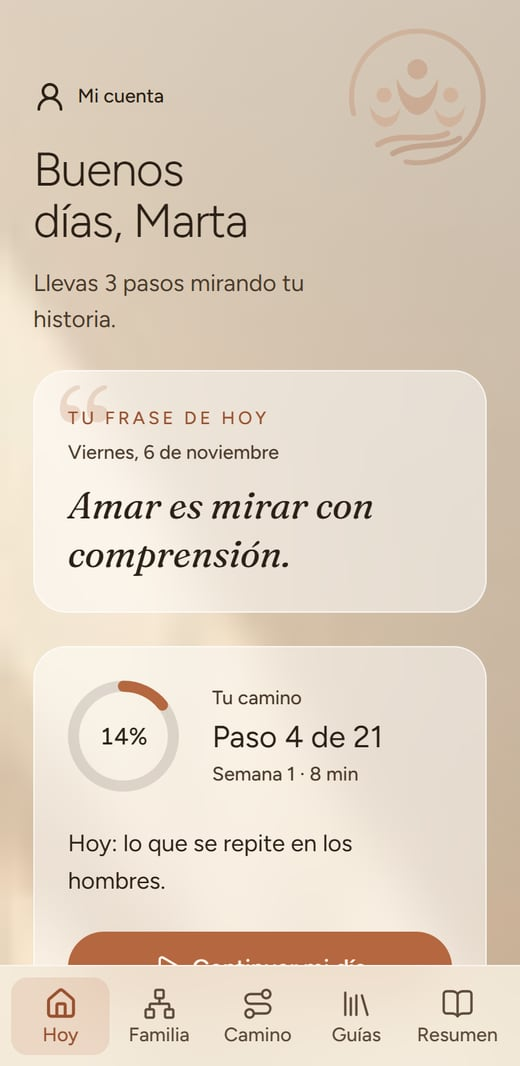
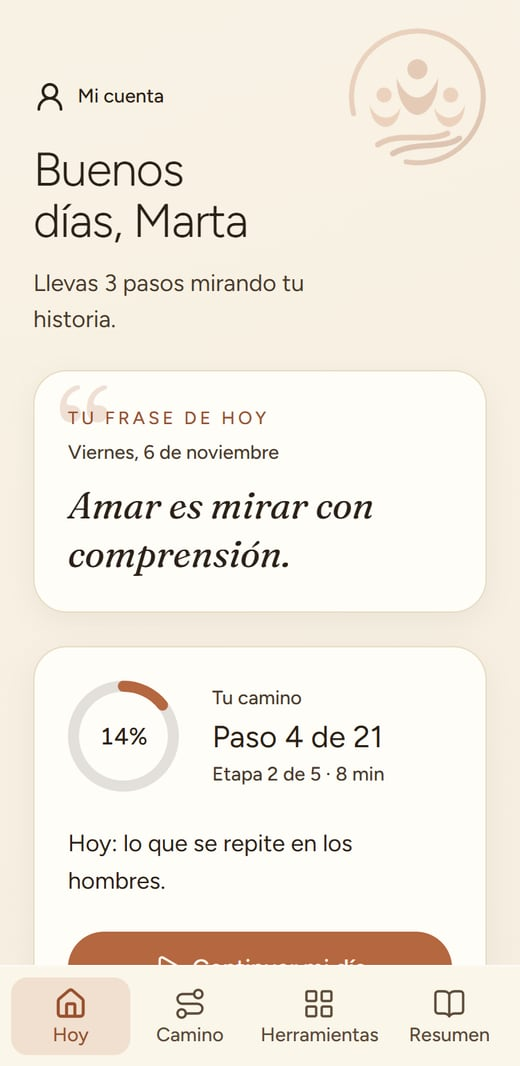
Página de ventas: un solo mockup en el hero y capturas del rediseño

diff --git a/index.html b/index.html
@@ -74,9 +74,9 @@
   .benef li::before{content:""; position:absolute; left:3px; top:7px; width:11px; height:6px; border-left:2px solid var(--verde); border-bottom:2px solid var(--verde); transform:rotate(-45deg);}
   .rs{color:var(--terracota-texto); font-weight:700;}
   .hero-cta{margin-top:0;}
-  .hero-arte{grid-area:arte; position:relative; width:min(100%, 330px); margin-inline:auto; padding-bottom:10px;}
+  .hero-arte{grid-area:arte; position:relative; width:min(100%, 330px); margin-inline:auto; padding-bottom:10px; text-align:center;}
   .hero-arte .tel{margin-inline:auto 0;}
-  .hero-arte .tel{width:236px; margin-left:0; filter:drop-shadow(0 18px 26px rgba(42,32,22,.28));}
+  .hero-arte .tel{width:240px; margin-inline:auto; filter:drop-shadow(0 18px 26px rgba(42,32,22,.22));}
   .hero-arte .tel2{position:absolute; right:0; bottom:0; width:128px; border-radius:20px; box-shadow:0 14px 28px rgba(42,32,22,.28); border:4px solid #fff;}
 
   /* 2. IDENTIFICACIÓN */
@@ -246,8 +246,7 @@
   }
   @media (max-width:859px){
     .hero-cta{grid-area:cta; text-align:left;}
-    .hero-arte .tel{width:200px;}
-    .hero-arte .tel2{width:108px;}
+    .hero-arte .tel{width:220px;}
   }
 
   /* ESPEJO Y PREGUNTAS */
@@ -274,8 +273,7 @@
     .hero{padding:44px 0 80px;}
     .hero-grid{grid-template-columns:1.1fr .9fr; grid-template-areas:"texto arte" "cta arte"; align-items:center; column-gap:64px;}
     .hero-arte{width:100%; max-width:380px; margin-inline:0 auto; padding-bottom:0;}
-    .hero-arte .tel{width:250px;}
-    .hero-arte .tel2{width:150px;}
+    .hero-arte .tel{width:290px;}
     .ident-grid{grid-template-columns:.9fr 1.1fr; gap:56px;}
     .pasos{grid-template-columns:repeat(3,1fr);}
     .paso{grid-template-columns:1fr; gap:20px; padding:14px 14px 26px; align-items:start; align-content:start;}
@@ -310,7 +308,6 @@
     </div>
     <div class="hero-arte">
       <img class="tel" src="assets/app-hero-celular-2.webp" alt="Celular mostrando el mapa familiar de la aplicación, con cuatro personas y una observación" width="640" height="1274" fetchpriority="high">
-      <img class="tel2" src="assets/app-camino.jpg" alt="Captura del recorrido de 21 pasos dentro de la aplicación" width="520" height="1067" loading="lazy">
     </div>
     <div class="hero-cta">
       <a href="https://pay.hotmart.com/X108098847Y?sck=hero" class="cta" data-sck="hero" onclick="window.clarity&&clarity('event','cta_hero')">QUIERO EXPLORAR MI HISTORIA</a>
@@ -379,9 +376,9 @@
       <div class="car-track" id="track" tabindex="0">
         <figure class="vista"><button class="amp" type="button" data-ampliar="assets/app-hoy.jpg" data-alt="Pantalla Tu día de hoy" aria-label="Ampliar: Tu día de hoy"><img src="assets/app-hoy.jpg" alt="Captura de la pantalla Tu día de hoy" width="520" height="1067" loading="lazy"></button><h3>Tu día de hoy</h3><p>Tu frase y tu paso de hoy.</p></figure>
         <figure class="vista"><button class="amp" type="button" data-ampliar="assets/app-familia.jpg" data-alt="Pantalla Mapa familiar" aria-label="Ampliar: Mapa familiar"><img src="assets/app-familia.jpg" alt="Captura del mapa familiar" width="520" height="1067" loading="lazy"></button><h3>Mapa familiar</h3><p>Tu mapa y sus observaciones.</p></figure>
-        <figure class="vista"><button class="amp" type="button" data-ampliar="assets/app-camino.jpg" data-alt="Pantalla Camino de 21 pasos" aria-label="Ampliar: Camino de 21 pasos"><img src="assets/app-camino.jpg" alt="Captura del camino de 21 pasos" width="520" height="1067" loading="lazy"></button><h3>Camino de 21 pasos</h3><p>21 pasos de ejercicios breves.</p></figure>
+        <figure class="vista"><button class="amp" type="button" data-ampliar="assets/app-camino.jpg" data-alt="Pantalla Tu viaje en 5 etapas" aria-label="Ampliar: Tu viaje en 5 etapas"><img src="assets/app-camino.jpg" alt="Captura del camino de 21 pasos" width="520" height="1067" loading="lazy"></button><h3>Tu viaje en 5 etapas</h3><p>21 pasos breves, a tu ritmo.</p></figure>
         <figure class="vista"><button class="amp" type="button" data-ampliar="assets/app-dia.jpg" data-alt="Pantalla Ejercicio y diario" aria-label="Ampliar: Ejercicio y diario"><img src="assets/app-dia.jpg" alt="Captura de un día con ejercicio y diario" width="520" height="1067" loading="lazy"></button><h3>Ejercicio y diario</h3><p>Preguntas para escribir.</p></figure>
-        <figure class="vista"><button class="amp" type="button" data-ampliar="assets/app-guias.jpg" data-alt="Pantalla Guía y bonos" aria-label="Ampliar: Guía y bonos"><img src="assets/app-guias.jpg" alt="Captura de la pestaña Guías con la guía principal y los bonos" width="520" height="1067" loading="lazy"></button><h3>Guía y bonos</h3><p>Guía y 4 bonos.</p></figure>
+        <figure class="vista"><button class="amp" type="button" data-ampliar="assets/app-guias.jpg" data-alt="Pantalla Herramientas" aria-label="Ampliar: Herramientas"><img src="assets/app-guias.jpg" alt="Captura de la pestaña Herramientas con el mapa, las cargas, las guías y la meditación" width="520" height="1067" loading="lazy"></button><h3>Herramientas</h3><p>Mapa, cargas, guías y meditación.</p></figure>
         <figure class="vista"><button class="amp" type="button" data-ampliar="assets/app-resumen.jpg" data-alt="Pantalla Resumen final" aria-label="Ampliar: Resumen final"><img src="assets/app-resumen.jpg" alt="Captura del resumen con tus días y observaciones" width="520" height="1067" loading="lazy"></button><h3>Resumen final</h3><p>Tu mapa, tus días y lo que anotaste.</p></figure>
       </div>
       <div class="car-ctrl">
